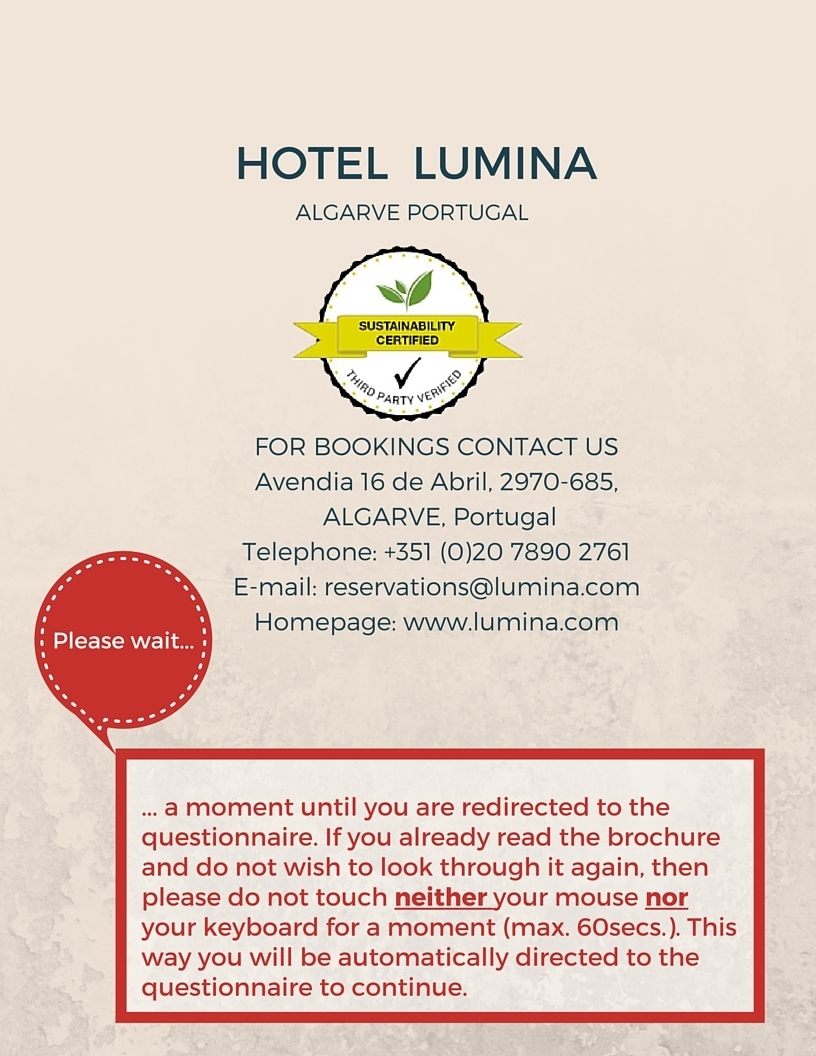
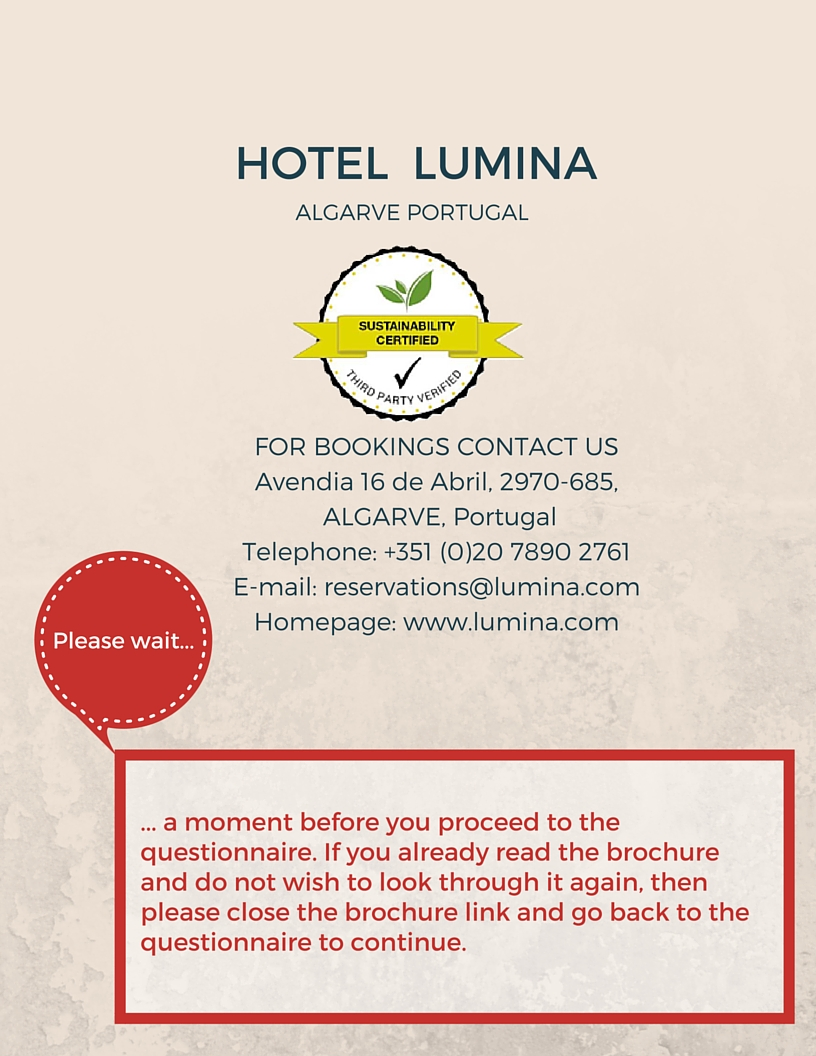
disabled popups and changed lastpage

diff --git a/lumina28/index.html b/lumina28/index.html
@@ -590,6 +590,7 @@ woopra.track("ticID", {
 			    tic: user_id
 			});
 
+/*
 //-------------------------
 var popup_a_interval = 60000;
 var initial_URL = window.location.href;
@@ -616,7 +617,7 @@ function alertbox (){
 	}, 
 	   function(isConfirm){   
 	   	if (isConfirm) {     
-	   		window.location.replace("https://widget.surveymonkey.com/collect/website/js/UVE8PvD_2BQdU7bdo7F8anwCnsHeD_2F2wfIxVEbsbMsM9F3lNscpQiI_2Baon7hSqGlHg.js");
+	   		window.location.replace("https://mingle.respondi.com/s/603198/ospe.php3?return_tic="+user_id+"");
 	   		var time_now = new Date();
 			woopra.track("goto_survey", {
 			    timestamp: time_now.toUTCString(),
@@ -634,7 +635,7 @@ function alertbox (){
 	   			}, popup_a_interval);
 	   	} 
 	   });
-}
+}*/
 
 // Idle alert
 /* Encoding Table
